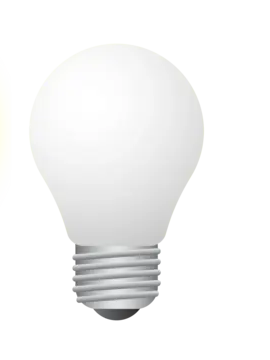
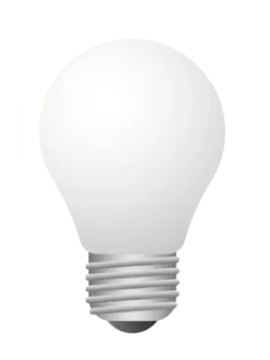
feat: add html and css for lamp and button

Changed region(s): [[0.1778, 0.2139, 0.8593, 0.9472], [0.1481, 0.4889, 0.1778, 0.5194]]

diff --git a/assets/css/style.css b/assets/css/style.css
@@ -3,3 +3,50 @@
   padding: 0;
   box-sizing: border-box;
 }
+
+body {
+  font-family: system-ui, sans-serif;
+  min-height: 100vh;
+  background-color: oklch(14.7% 0.004 49.25);
+  color: white;
+}
+
+button {
+  border-radius: 0;
+  text-align: inherit;
+  background: none;
+  box-shadow: none;
+  padding: 0;
+  cursor: pointer;
+  border: none;
+  color: inherit;
+  font: inherit;
+}
+
+.container {
+  width: 100%;
+  height: 100vh;
+  display: flex;
+  flex-direction: column;
+  justify-content: center;
+  align-items: center;
+  gap: 0.5rem;
+}
+
+.btn {
+  background-color: oklch(97% 0.001 106.424);
+  color: black;
+  padding: 0.75rem 1.5rem;
+  font-size: 1.5rem;
+  font-weight: 600;
+  border-radius: 0.75rem;
+  transition: all 0.3s ease;
+
+  &:hover {
+    background-color: oklch(92.3% 0.003 48.717);
+  }
+
+  &:active {
+    translate: 0 2px;
+  }
+}

diff --git a/index.html b/index.html
@@ -9,6 +9,14 @@
     <script defer src="assets/js/script.js"></script>
   </head>
   <body>
-    <h1>JS DOM 1</h1>
+    <div class="container">
+      <img
+        src="assets/img/white_lamp.png"
+        alt="Lampadina spenta"
+        class="lamp"
+        id="lamp"
+      />
+      <button class="btn" id="toggle-button">Accendi</button>
+    </div>
   </body>
 </html>